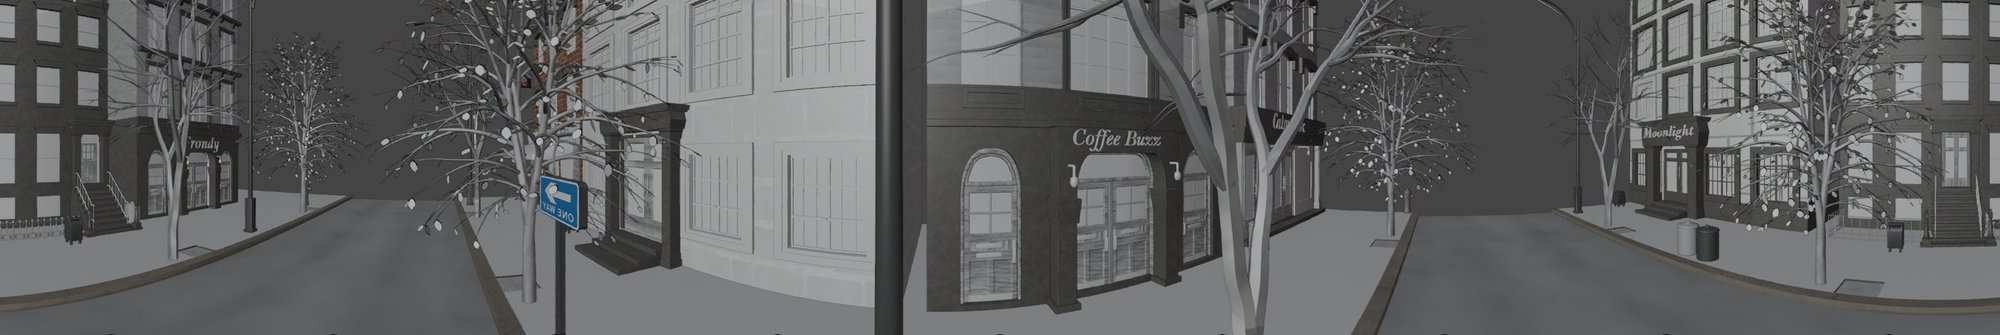
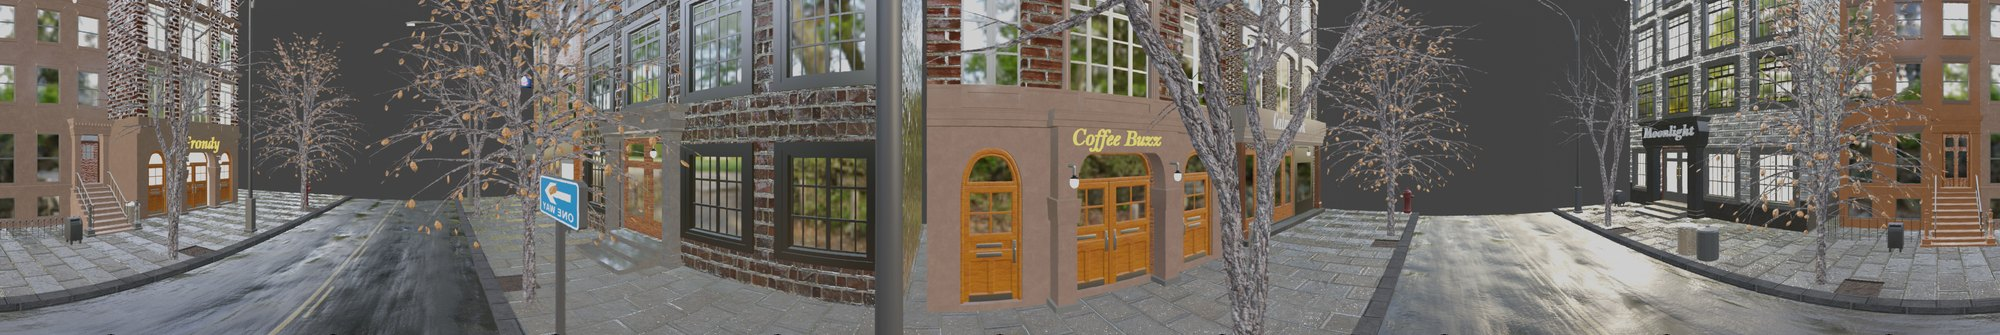
Derive the full-view pictures in the docs from the panoramas that ship
These two had drifted apart, which is the failure worth preventing rather than the drift worth
fixing. docs/img/scenes/ held thumbnails made during one capture session, benchmark/panoramas/
holds the files a run actually reads, and nothing tied them together. A panorama could be
replaced without the picture of it changing, leaving a reader looking at a full view no run
would ever produce. Both city-street thumbnails were still the grey Solid captures long after
the panoramas themselves were recaptured in colour.

scripts/08_refresh_doc_images.py regenerates all ten from benchmark/panoramas/, and --check
reports drift and exits non-zero rather than writing, so CI can hold the two together instead
of trusting whoever swaps a panorama to remember.

diff --git a/scripts/08_refresh_doc_images.py b/scripts/08_refresh_doc_images.py
@@ -1,0 +1,74 @@
+"""Regenerate the full-view pictures in docs/ from the panoramas that actually ship.
+
+These two had drifted apart, which is the failure worth preventing. docs/img/scenes/ held
+thumbnails made during one capture session and benchmark/panoramas/ held the files a run reads,
+and nothing tied them together, so a panorama could be replaced without the picture of it
+changing. A reader would then be looking at a full view that no run would ever produce.
+
+So the pictures are derived rather than authored. Run this after replacing anything under
+benchmark/panoramas/ and commit what it writes.
+
+  python3 scripts/08_refresh_doc_images.py [--check]
+
+  --check   report drift and exit non-zero instead of writing, for CI
+"""
+import os
+import sys
+import glob
+
+from PIL import Image
+
+REPO = os.path.dirname(os.path.dirname(os.path.abspath(__file__)))
+PANO = os.path.join(REPO, "benchmark", "panoramas")
+DOCS = os.path.join(REPO, "docs", "img", "scenes")
+
+LONG_EDGE = 2000
+QUALITY = 86
+CHECK = "--check" in sys.argv
+
+
+def target_name(key):
+    """book-nook__preset-road1 -> book-nook__road1__pano.jpg"""
+    scene, preset = key.split("__preset-", 1)
+    return f"{scene}__{preset}__pano.jpg"
+
+
+def main():
+    os.makedirs(DOCS, exist_ok=True)
+    srcs = sorted(glob.glob(os.path.join(PANO, "*.png")))
+    if not srcs:
+        print(f"  no panoramas under {PANO}")
+        return 1
+
+    drift, wrote = [], 0
+    for src in srcs:
+        key = os.path.basename(src)[:-4]
+        dst = os.path.join(DOCS, target_name(key))
+        im = Image.open(src).convert("RGB")
+        im.thumbnail((LONG_EDGE, LONG_EDGE), Image.LANCZOS)
+
+        if CHECK:
+            if not os.path.exists(dst):
+                drift.append(f"{target_name(key)} is missing")
+                continue
+            cur = Image.open(dst).convert("RGB")
+            if cur.size != im.size:
+                drift.append(f"{target_name(key)} is {cur.size}, the panorama gives {im.size}")
+            continue
+
+        im.save(dst, quality=QUALITY)
+        wrote += 1
+        print(f"  {target_name(key):44} {str(im.size):>14}  from {os.path.basename(src)}")
+
+    if CHECK:
+        for d in drift:
+            print(f"  DRIFT  {d}")
+        print(f"\n  {len(srcs) - len(drift)}/{len(srcs)} doc pictures match the shipped panoramas")
+        return 1 if drift else 0
+
+    print(f"\n  refreshed {wrote} pictures from {PANO}")
+    return 0
+
+
+if __name__ == "__main__":
+    sys.exit(main())
